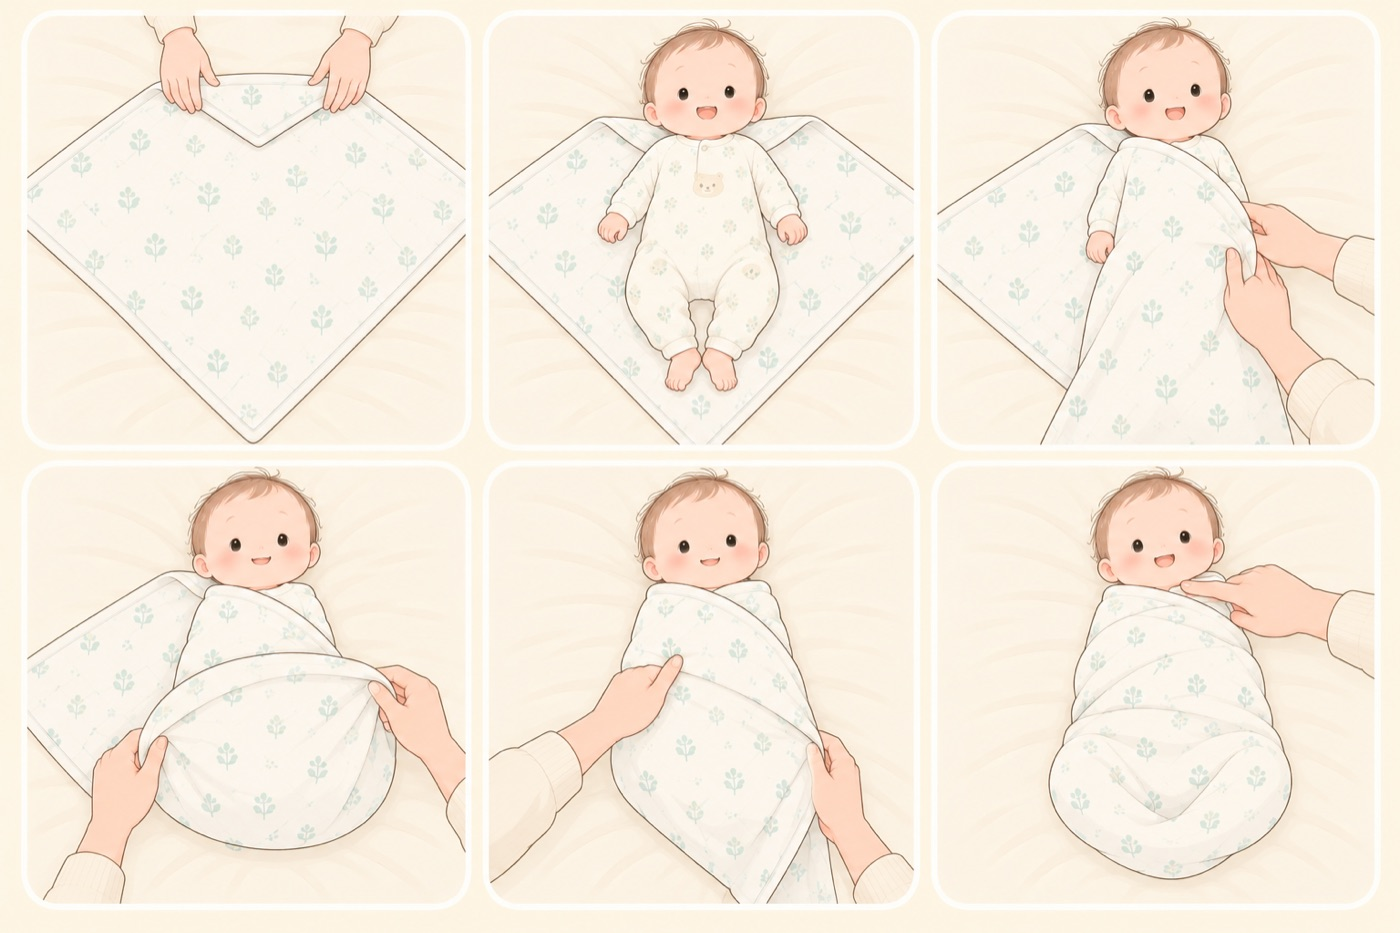
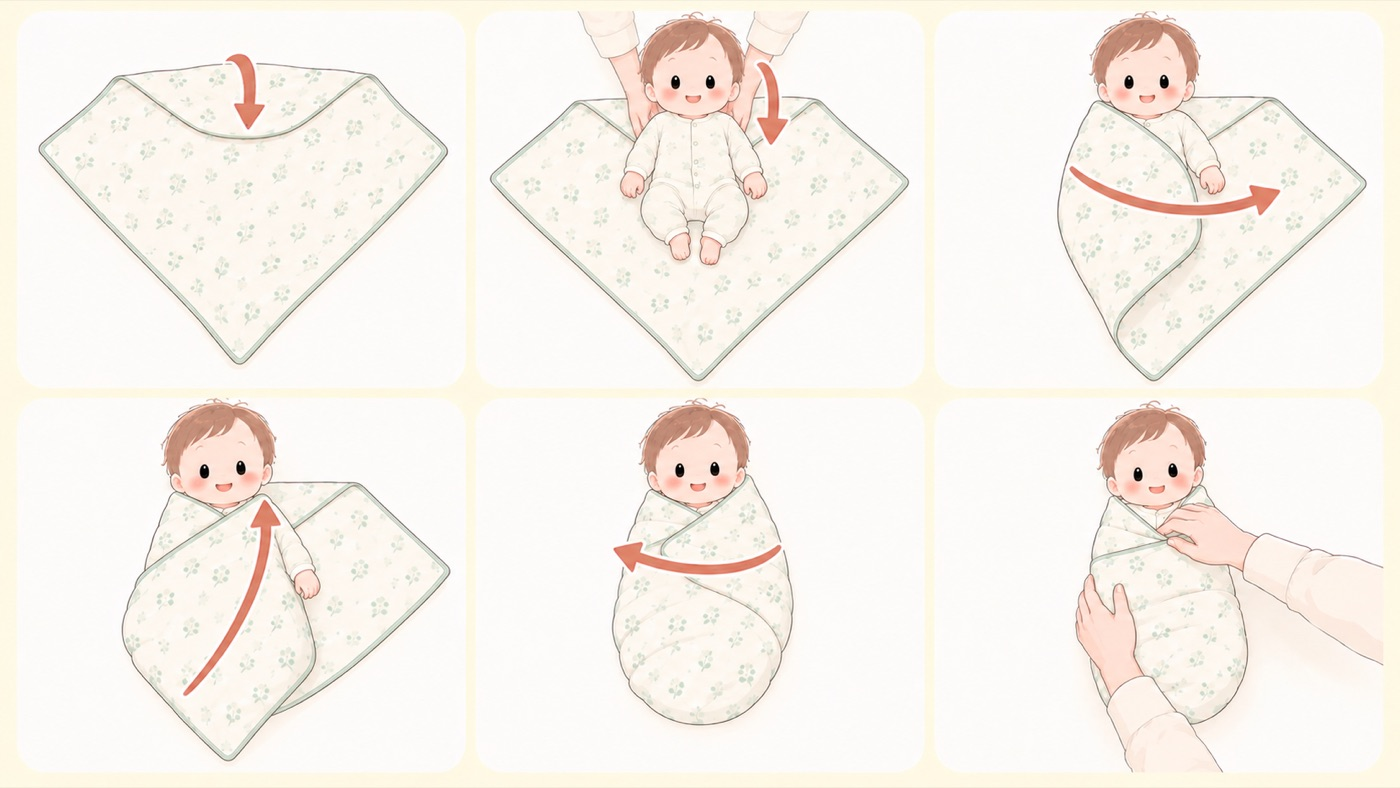
おくるみの手順図を作り直し、迷子の項目に持ち物のグッズを足した
おくるみの図は、4コマ目で折り上げた足元の布が5コマ目で開いて元に戻っていて、
手順がつながっていなかった。布を動かす向きも読み取れなかった。

- 布を動かす向きを矢印で示した（1コマにつき1本）
- 4コマ目で折り上げた布が、5コマ目でも体を覆ったまま残るようにした
- 4コマ目は、足元の端が「3でかぶせた側の肩」まで斜めに上がって折り目に
  差し込まれることが分かるようにした。真上への短い矢印では読み取れなかった
- 2コマ目は、大人の手で赤ちゃんを布の上に置く動作として描いた
- 本文の手順4も、どちらの肩に差し込むのかを書いた

迷子の項目にはグッズが無かったので足した。名前が外から見えないことを
選び方の軸にして、シールで隠せる迷子札と、二つ折りの緊急連絡先カードを入れた。
保護されたときに子どもが住所を言えるとはかぎらず、持ち物の中の連絡先から
連絡がつく。

Claude-Session: https://claude.ai/code/session_01EDkkgArvv68s7gzQVsaPbx

diff --git a/index.html b/index.html
@@ -489,7 +489,7 @@
     </div>
     <figure class="figure">
       <div class="figure-grid6">
-        <img src="assets/img/m0/swaddle-steps.jpg" alt="おくるみの基本巻きの6ステップ。1.ブランケットをひし形に広げて上の角を中心に向けて折る、2.折り目に肩が沿うように仰向けに寝かせる、3.片腕を体に沿わせてその側の布をかぶせ端を背中の下に挟む、4.足元の布をふんわり折って端を同じ側の肩の後ろから背中の下に入れる、5.もう片方の腕を体に沿わせて反対側の布を巻き端を背中の下に入れる、6.胸元に指が2〜3本入るゆとりを確かめた完成形" width="1400" height="933" loading="lazy" decoding="async">
+        <img src="assets/img/m0/swaddle-steps.jpg" alt="おくるみの基本巻きの6ステップ。布を動かす向きは矢印で示している。1.ブランケットをひし形に広げ、上の角を中心に向けて下へ折る、2.大人が両手で頭と背中を支えて、折り目に肩が重なる位置に仰向けに寝かせる、3.片腕を体に沿わせ、その側の布を胸の上を横切らせて反対側の体の下へ入れる、4.足元の角を持ち上げ、先端を3でかぶせた側の肩まで斜めに運んで、肩の後ろの折り目に差し込む。下半身が布で覆われる、5.4の布を覆ったまま、もう片方の腕を沿わせて反対側の布を胸の上に巻き、端を体の下へ入れる、6.胸元に指が2〜3本入るゆとりを確かめた完成形" width="1400" height="788" loading="lazy" decoding="async">
         <span class="order order-1" aria-hidden="true"><span class="mark">1</span></span>
         <span class="order order-2" aria-hidden="true"><span class="mark">2</span></span>
         <span class="order order-3" aria-hidden="true"><span class="mark">3</span></span>
@@ -497,13 +497,13 @@
         <span class="order order-5" aria-hidden="true"><span class="mark">5</span></span>
         <span class="order order-6" aria-hidden="true"><span class="mark">6</span></span>
       </div>
-      <figcaption>「基本巻き」の6ステップ。片側 → 足元 → 反対側 の順に巻きます。おひなまき・半ぐるみ・袋型のスワドルは、これとは別の方式です。</figcaption>
+      <figcaption>「基本巻き」の6ステップ。矢印が布を動かす向きです。片側 → 足元 → 反対側 の順に巻きます。おひなまき・半ぐるみ・袋型のスワドルは、これとは別の方式です。</figcaption>
     </figure>
     <ol class="steps">
       <li><h4>ひし形に広げて、上の角を折る</h4><p>薄手の正方形のブランケットを、ひし形になるように広げます。いちばん上の角を、布の中心点に向けて内側に折ります。</p></li>
       <li><h4>折り目に肩が沿うように、仰向けに寝かせる</h4><p>赤ちゃんを<strong>仰向け</strong>に寝かせます。肩のラインが折り目と重なる位置です。頭はおくるみの外に出します。</p></li>
       <li><h4>片方の腕を体に沿わせ、その側の布をかぶせる</h4><p>たとえば右腕を体の横にまっすぐ沿わせます。<strong>同じ側（右）</strong>の布の端を持って、肩から体にかぶせ、端を背中の下に挟み込みます。</p></li>
-      <li><h4>足元の布を、ふんわり折って背中の下に入れる</h4><p>足元の角を持ち、<strong>脚を締めつけないようにふんわりと折って</strong>、端を、片側の肩の後ろから背中の下に入れます。ここをきつくすると脚が伸びたまま固定されます。布の中で脚がM字に曲げられる、ゆるみを残します。</p></li>
+      <li><h4>足元の布を、ふんわり折って肩の後ろに差し込む</h4><p>足元の角を持ち、<strong>脚を締めつけないようにふんわりと折って</strong>、端を、<strong>3でかぶせた側の肩</strong>まで斜めに運び、肩の後ろにできた折り目に差し込みます。ここをきつくすると脚が伸びたまま固定されます。布の中で脚がM字に曲げられる、ゆるみを残します。</p></li>
       <li><h4>もう片方の腕を沿わせ、反対側の布を巻く</h4><p>左腕を体の横に沿わせ、左の布を体に巻き付けます。余った端を背中の下に入れれば、両腕が包まれます。</p></li>
       <li><h4>巻けたら、ゆとりを確かめる</h4><p>胸元に指が2〜3本入るか。布の中で脚がM字に開き、自由に動かせるか。この2つを確かめて完成です。</p></li>
     </ol>
@@ -5345,6 +5345,23 @@
         <li><span class="ok" aria-hidden="true"><span class="mark">◯</span></span><span class="sr-only">すること：</span><div><strong>よその犬にさわる前に、飼い主に聞く、と決めておく</strong><br>日本小児科学会は、動物が嫌がることをして咬まれる子どもが多いこと、<strong>食べているときや動物同士が争っているときに手を出すと咬まれることが多い</strong>ことを挙げています。かわいいと思うと、走って近づいて顔を寄せます。先に飼い主に聞く、後ろから近づかない、顔を近づけない、の3つを決めておきます。親戚宅や友人宅の犬でも同じです。</div></li>
         <li><span class="ng" aria-hidden="true"><span class="mark">×</span></span><span class="sr-only">しないこと：</span><div><strong>「大したことはなかったから」で済ませない</strong><br>警視庁は、声かけやつきまといがあったときは<strong>些細なことでも必ず警察への通報と学校への連絡を</strong>としています。子どもは黙っていることがあるので、様子がいつもと違うときはやさしく聞きます。</div></li>
       </ul>
+    </div>
+    <div class="goods">
+      <div class="goods-head"><h4>🛍 グッズの選び方</h4><span class="pr">PR</span></div>
+      <ul class="goods-points">
+        <li>防犯ブザーは、<strong>自分で電池を替えられて、押す練習ができる</strong>ものを選びます。警視庁は、持ち物に付けて電池を確かめ、押す練習をすることを挙げています。</li>
+        <li><strong>名前が外から見えない</strong>ものを選びます。名前を呼ばれると、子どもは知り合いだと思ってしまいます。書いた上からシールで隠せるものや、二つ折りで中身が見えないカードにします。</li>
+        <li>保護されたときに、子どもが住所や電話番号を言えるとはかぎりません。<strong>保護者の連絡先が持ち物の中にある</strong>と、そこから連絡がつきます。服の内側やポケットなど、外から見えない場所に入れます。</li>
+        <li>GPSは、位置が分かるだけでなく<strong>手元で音が鳴るか</strong>を確かめます。かばんの底に入れたままだと、呼びかけに気づけません。</li>
+      </ul>
+      <ul class="goods-picks">
+        <li><a href="https://www.amazon.co.jp/dp/B01871BJ2Q?tag=faithandbrave-22" target="_blank" rel="nofollow sponsored noopener"><span class="pick-name">レイメイ藤井 防犯ブザー EBB131A（生活防滴）<span class="pick-note">文具メーカーの定番。ランドセルに付く形</span></span><span class="go">Amazonで見る →</span></a></li>
+        <li><a href="https://www.amazon.co.jp/dp/B0FPF8SF3S?tag=faithandbrave-22" target="_blank" rel="nofollow sponsored noopener"><span class="pick-name">クツワ 防犯ブザー スターライン ST138MT（LED付き）<span class="pick-note">LED付き。暗い帰り道でも手元が見える</span></span><span class="go">Amazonで見る →</span></a></li>
+        <li><a href="https://www.amazon.co.jp/dp/B0CBMSY7WS?tag=faithandbrave-22" target="_blank" rel="nofollow sponsored noopener"><span class="pick-name">キアーズ 迷子札 インフォバンド（個人情報保護シール付き・手書き・防水）<span class="pick-note">書いた名前をシールで隠せる。手首に巻く</span></span><span class="go">Amazonで見る →</span></a></li>
+        <li><a href="https://www.amazon.co.jp/dp/B09MKFGCJZ?tag=faithandbrave-22" target="_blank" rel="nofollow sponsored noopener"><span class="pick-name">緊急連絡先カード 二つ折りタイプ 10枚セット（OPP袋つき）<span class="pick-note">二つ折りで中身が見えない。ポケットに入る</span></span><span class="go">Amazonで見る →</span></a></li>
+        <li><a href="https://www.amazon.co.jp/dp/B0GF32FV8W?tag=faithandbrave-22" target="_blank" rel="nofollow sponsored noopener"><span class="pick-name">みてねみまもりGPSトークPlus MB06（防犯ブザー一体型・液晶つき）<span class="pick-note">防犯ブザーと一体。持ち物が1つで済む</span></span><span class="go">Amazonで見る →</span></a></li>
+      </ul>
+      <p class="goods-note">リンクはAmazonアソシエイトリンクです。当サイトはアフィリエイトプログラムに参加しています。Amazonのアソシエイトとして、当サイトは適格販売により収入を得ています。 <a href="#policy">選び方の方針</a></p>
     </div>
     <details class="sources">
       <summary>この項目の根拠</summary>

diff --git a/src/content.py b/src/content.py
@@ -239,14 +239,14 @@ TABS.append({
              "おひなまき・半ぐるみ・袋型のスワドルとの違いは、このあとの"
              "「ほかの巻き方との関係」にまとめました。",
      "figure": ("assets/img/m0/swaddle-steps.jpg",
-                "おくるみの基本巻きの6ステップ。1.ブランケットをひし形に広げて上の角を中心に向けて折る、2.折り目に肩が沿うように仰向けに寝かせる、3.片腕を体に沿わせてその側の布をかぶせ端を背中の下に挟む、4.足元の布をふんわり折って端を同じ側の肩の後ろから背中の下に入れる、5.もう片方の腕を体に沿わせて反対側の布を巻き端を背中の下に入れる、6.胸元に指が2〜3本入るゆとりを確かめた完成形",
-                "「基本巻き」の6ステップ。片側 → 足元 → 反対側 の順に巻きます。"
+                "おくるみの基本巻きの6ステップ。布を動かす向きは矢印で示している。1.ブランケットをひし形に広げ、上の角を中心に向けて下へ折る、2.大人が両手で頭と背中を支えて、折り目に肩が重なる位置に仰向けに寝かせる、3.片腕を体に沿わせ、その側の布を胸の上を横切らせて反対側の体の下へ入れる、4.足元の角を持ち上げ、先端を3でかぶせた側の肩まで斜めに運んで、肩の後ろの折り目に差し込む。下半身が布で覆われる、5.4の布を覆ったまま、もう片方の腕を沿わせて反対側の布を胸の上に巻き、端を体の下へ入れる、6.胸元に指が2〜3本入るゆとりを確かめた完成形",
+                "「基本巻き」の6ステップ。矢印が布を動かす向きです。片側 → 足元 → 反対側 の順に巻きます。"
                 "おひなまき・半ぐるみ・袋型のスワドルは、これとは別の方式です。", "grid6"),
      "steps": [
         ("ひし形に広げて、上の角を折る", "薄手の正方形のブランケットを、ひし形になるように広げます。いちばん上の角を、布の中心点に向けて内側に折ります。"),
         ("折り目に肩が沿うように、仰向けに寝かせる", "赤ちゃんを<strong>仰向け</strong>に寝かせます。肩のラインが折り目と重なる位置です。頭はおくるみの外に出します。"),
         ("片方の腕を体に沿わせ、その側の布をかぶせる", "たとえば右腕を体の横にまっすぐ沿わせます。<strong>同じ側（右）</strong>の布の端を持って、肩から体にかぶせ、端を背中の下に挟み込みます。"),
-        ("足元の布を、ふんわり折って背中の下に入れる", "足元の角を持ち、<strong>脚を締めつけないようにふんわりと折って</strong>、端を、片側の肩の後ろから背中の下に入れます。ここをきつくすると脚が伸びたまま固定されます。布の中で脚がM字に曲げられる、ゆるみを残します。"),
+        ("足元の布を、ふんわり折って肩の後ろに差し込む", "足元の角を持ち、<strong>脚を締めつけないようにふんわりと折って</strong>、端を、<strong>3でかぶせた側の肩</strong>まで斜めに運び、肩の後ろにできた折り目に差し込みます。ここをきつくすると脚が伸びたまま固定されます。布の中で脚がM字に曲げられる、ゆるみを残します。"),
         ("もう片方の腕を沿わせ、反対側の布を巻く", "左腕を体の横に沿わせ、左の布を体に巻き付けます。余った端を背中の下に入れれば、両腕が包まれます。"),
         ("巻けたら、ゆとりを確かめる", "胸元に指が2〜3本入るか。布の中で脚がM字に開き、自由に動かせるか。この2つを確かめて完成です。"),
      ],
@@ -3074,6 +3074,12 @@ TABS.append({
         ("ok", "よその犬にさわる前に、飼い主に聞く、と決めておく", "日本小児科学会は、動物が嫌がることをして咬まれる子どもが多いこと、<strong>食べているときや動物同士が争っているときに手を出すと咬まれることが多い</strong>ことを挙げています。かわいいと思うと、走って近づいて顔を寄せます。先に飼い主に聞く、後ろから近づかない、顔を近づけない、の3つを決めておきます。親戚宅や友人宅の犬でも同じです。"),
         ("ng", "「大したことはなかったから」で済ませない", "警視庁は、声かけやつきまといがあったときは<strong>些細なことでも必ず警察への通報と学校への連絡を</strong>としています。子どもは黙っていることがあるので、様子がいつもと違うときはやさしく聞きます。"),
      ],
+     "goods": {"points": [
+        "防犯ブザーは、<strong>自分で電池を替えられて、押す練習ができる</strong>ものを選びます。警視庁は、持ち物に付けて電池を確かめ、押す練習をすることを挙げています。",
+        "<strong>名前が外から見えない</strong>ものを選びます。名前を呼ばれると、子どもは知り合いだと思ってしまいます。書いた上からシールで隠せるものや、二つ折りで中身が見えないカードにします。",
+        "保護されたときに、子どもが住所や電話番号を言えるとはかぎりません。<strong>保護者の連絡先が持ち物の中にある</strong>と、そこから連絡がつきます。服の内側やポケットなど、外から見えない場所に入れます。",
+        "GPSは、位置が分かるだけでなく<strong>手元で音が鳴るか</strong>を確かめます。かばんの底に入れたままだと、呼びかけに気づけません。",
+     ], "picks": ["buzzer_raymay", "buzzer_kutsuwa", "infoband", "emergency_card", "gps_talkplus"]},
      "sources": [
         ("keishicho_ikanoosushi", "子どもを犯罪から守るには「いかのおすし」を繰り返し具体的に子どもに伝え、親子で一緒に確認することがとても大切であること。各家庭で具体的な断り方を子どもと一緒に考えること。声かけ・つきまといの多くは子どもが一人になった時に発生していること。大声を出せなくても防犯ブザーを鳴らすことで同じ効果があり、持ち物に付けて電池のチェックやブザーを押す練習をすること。親子で通学路や自宅と習い事の間の道路など子どもの行動範囲を一緒に歩いて、なにかあったら駆け込める場所を確認すること。「子供110番の家」活動。声かけやつきまといなどがあった時には、些細なことでも必ず警察への通報と学校への連絡をすること。"),
         ("keishicho_checkpoint", "遊びに行くときは、誰と・どこで（例 〇〇公園）・何をして・何時に帰るかを親子で一緒に確認してから行くよう指導すること。公園などで遊ぶときは一人で遊ばないこと、保護者が付き添うか複数の友達と一緒に遊ぶなど一人にならないことが重要であること。公園のトイレや遊具の一部には周囲から見えづらい死角があるなど防犯上危険な場所もあり、普段利用する公園は親子で点検をすること。"),

diff --git a/src/products.py b/src/products.py
@@ -193,6 +193,8 @@ PRODUCTS = {
     "gate_smart2": ("B0BY29Z786", "日本育児 スマートゲイトIIプラス（階段上対応可・扉付き・突っ張り）"),
     "gate_katoji": ("B0F5WJ4781", "カトージ ベビーセーフティオートゲート スリムM（68-78cm）"),
     "buzzer_raymay": ("B01871BJ2Q", "レイメイ藤井 防犯ブザー EBB131A（生活防滴）"),
+    "infoband": ("B0CBMSY7WS", "キアーズ 迷子札 インフォバンド（個人情報保護シール付き・手書き・防水）"),
+    "emergency_card": ("B09MKFGCJZ", "緊急連絡先カード 二つ折りタイプ 10枚セット（OPP袋つき）"),
     "buzzer_kutsuwa": ("B0FPF8SF3S", "クツワ 防犯ブザー スターライン ST138MT（LED付き）"),
     "chairbelt_carifree":  ("B0GF1JVZRM", "日本エイテックス キャリフリー チェアベルト ホールド（撥水・肩ベルト付き）"),
     "chairbelt_napnap":    ("B0H9QWVGGR", "ナップナップ コンパクトチェアベルト（撥水・立ち上がり防止）"),
@@ -414,6 +416,8 @@ NOTES = {
     "gate_smart2": "階段上に対応。扉を開けて通れる",
     "gate_katoji": "自動で閉まる。閉め忘れが減る",
     "buzzer_raymay": "文具メーカーの定番。ランドセルに付く形",
+    "infoband": "書いた名前をシールで隠せる。手首に巻く",
+    "emergency_card": "二つ折りで中身が見えない。ポケットに入る",
     "buzzer_kutsuwa": "LED付き。暗い帰り道でも手元が見える",
     "swaddle": "薄手のガーゼ。2枚あると洗い替えが回る",
     "swaddle_gauze": "綿100%の正方形。ひし形に広げて巻ける",
